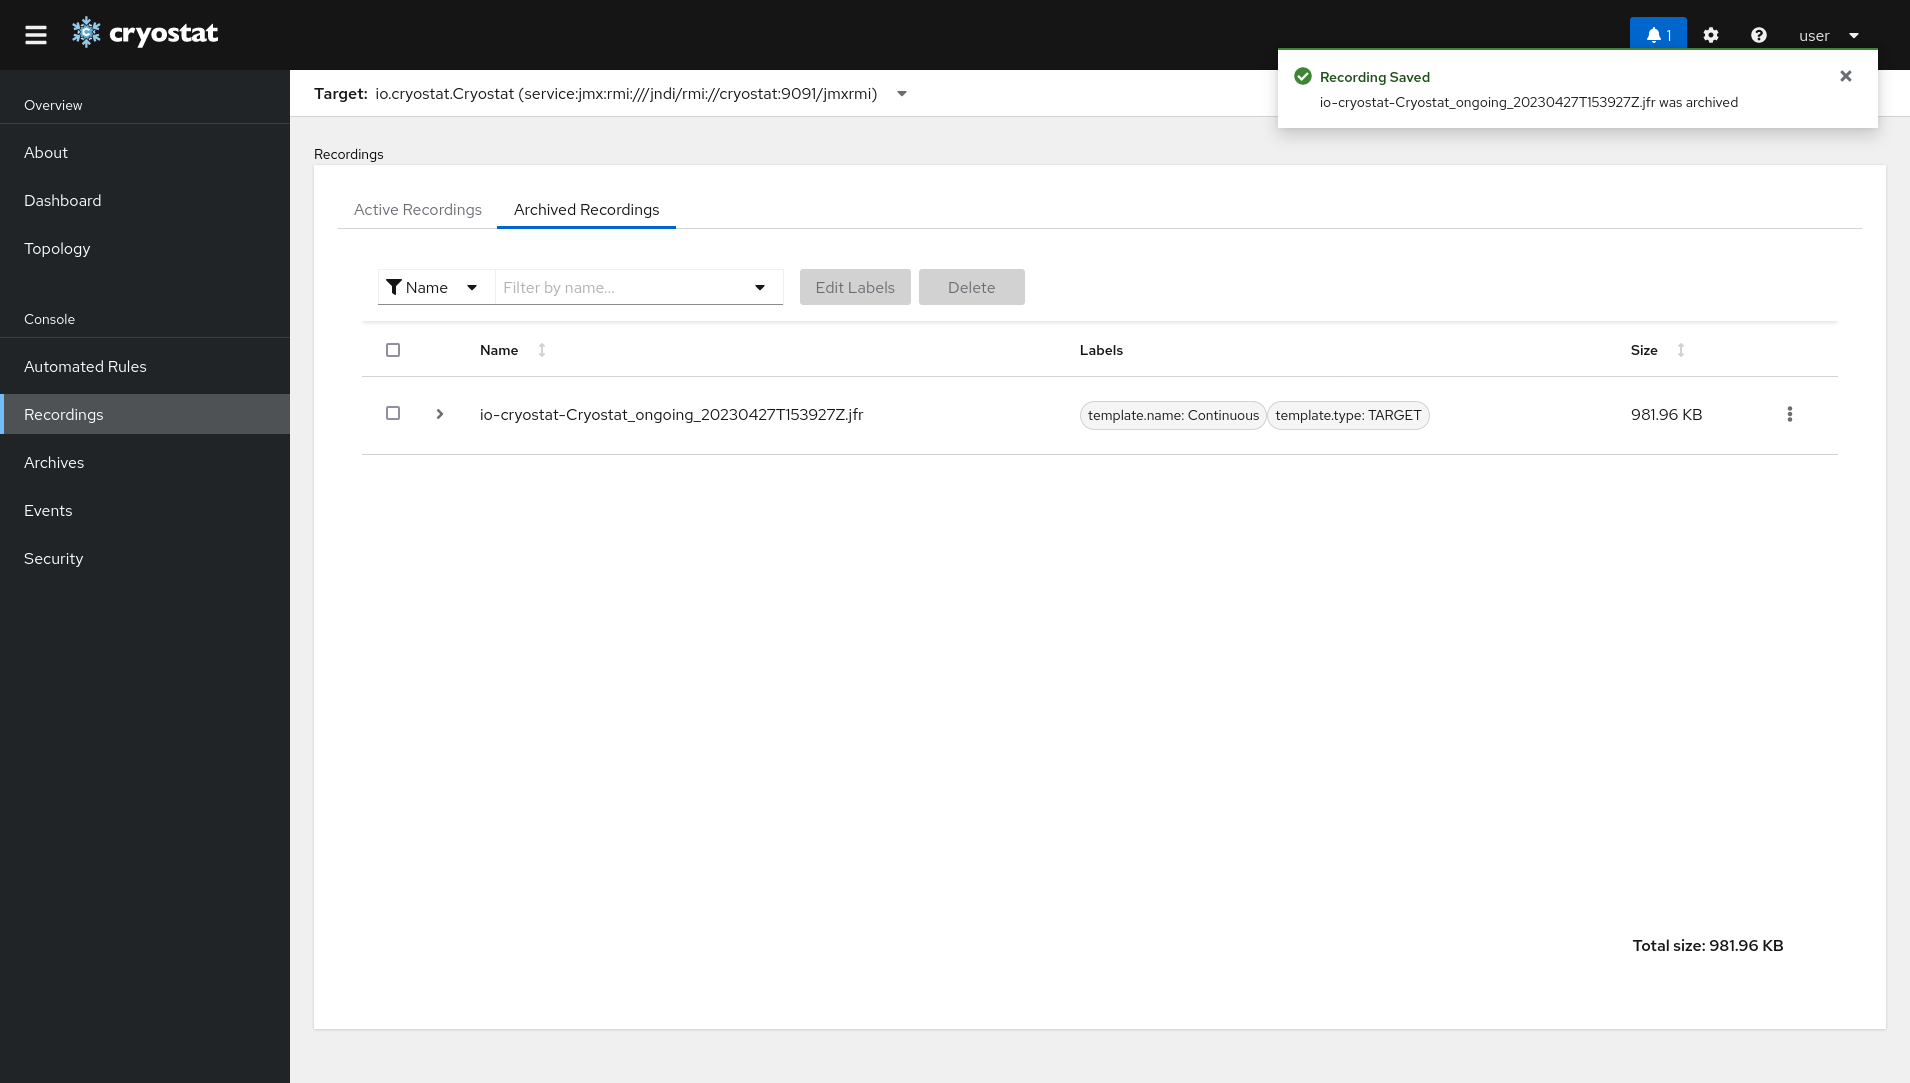
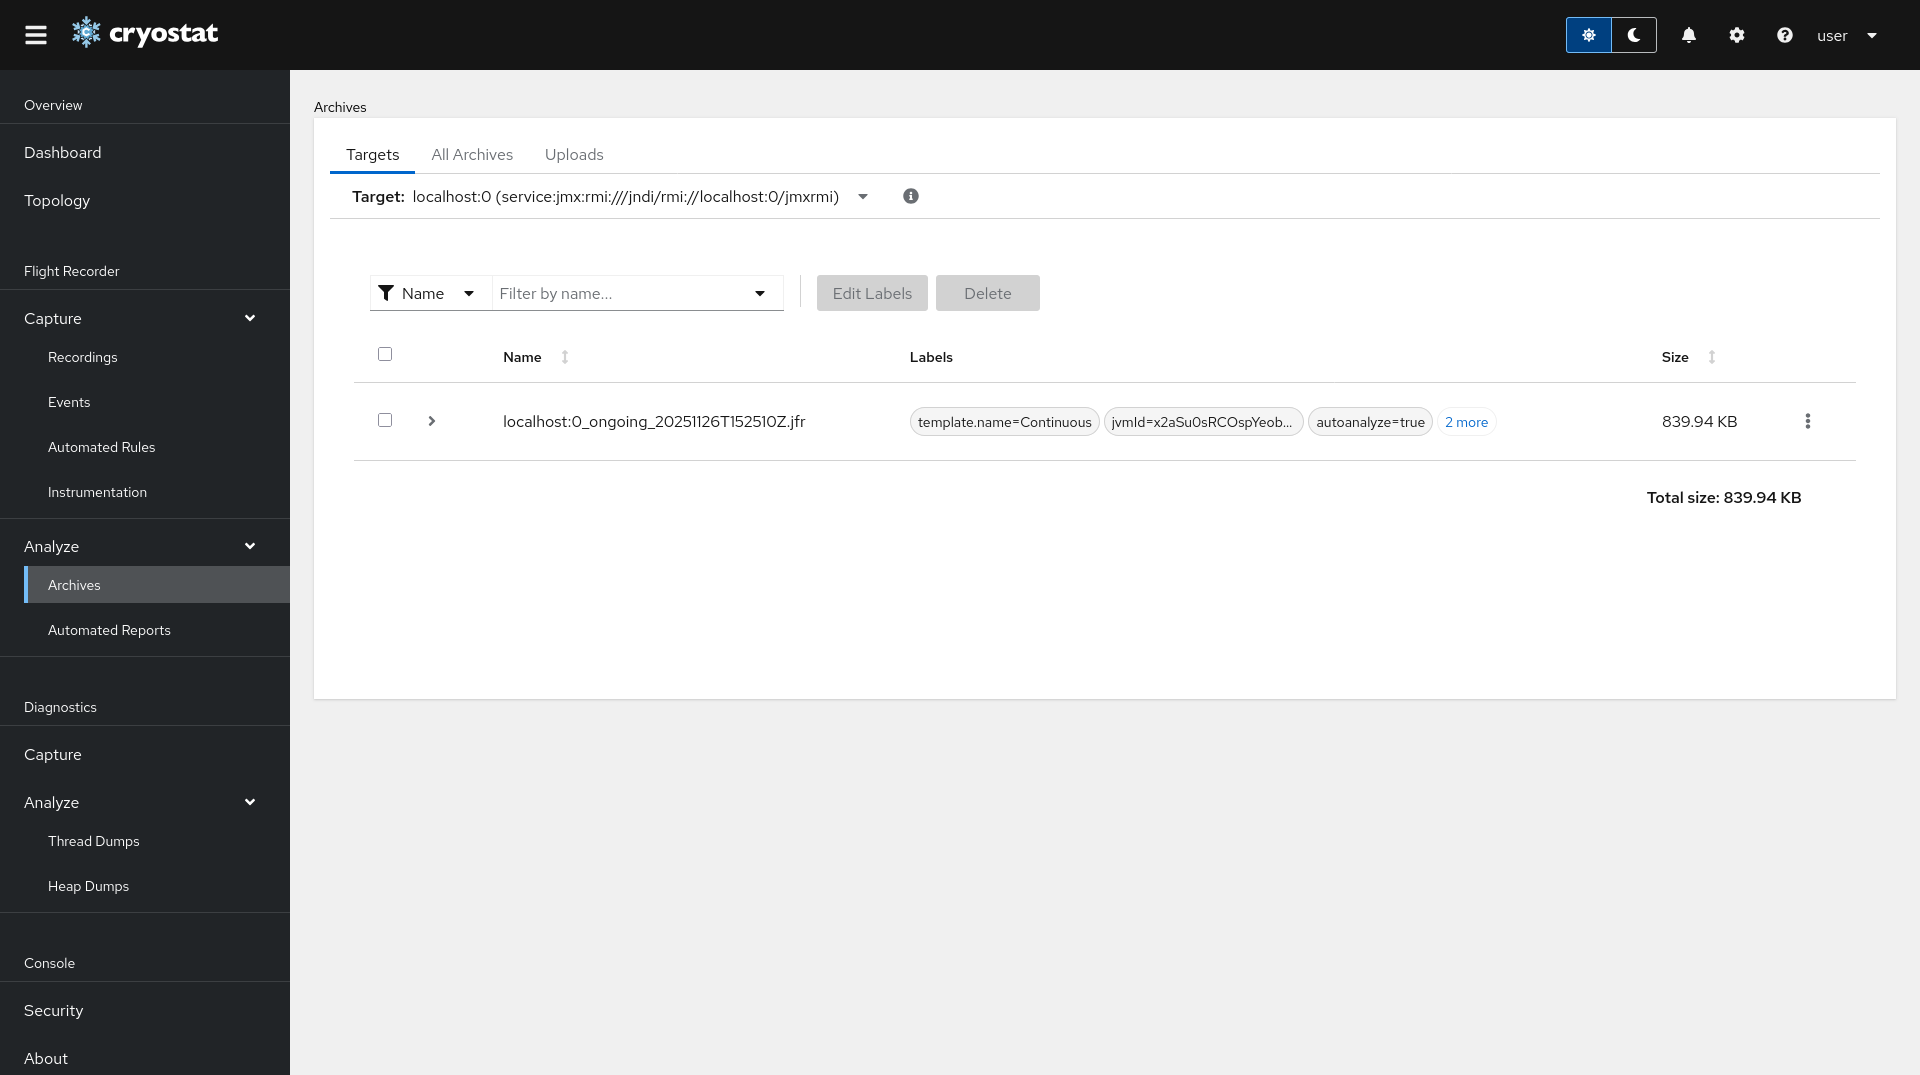
snapshot, archive recording

diff --git a/guides/_subsections/archive-a-recording.md b/guides/_subsections/archive-a-recording.md
@@ -38,7 +38,7 @@ any state (`RUNNING`, `STOPPED`, etc.), and may even be a `snapshot`.
   </li>
   <li>
     {% include howto_step.html
-      summary="Navigate to the <i>Archived Recordings</i> tab"
+      summary="Navigate to the <i>Flight Recorder/Analyze/Archives</i> view"
       image-name="4.1.0/archive-a-recording-2.png"
       caption="
         Once the <code>Recording</code> has been archived, a new entry will appear in the

diff --git a/guides/_subsections/snapshot-a-recording.md b/guides/_subsections/snapshot-a-recording.md
@@ -1,4 +1,4 @@
-## [Snapshot a Recording](#snapshot-a-recording)
+## [Snapshot Recordings](#snapshot-recordings)
 Snapshotting an application produces a new `Flight Recording` named `snapshot-n`,
 where `n` is a natural number. This `snapshot` contains all of the **JFR** data that
 was present in the <code>target</code> **JVM** at the time that the `snapshot` was taken and is in
